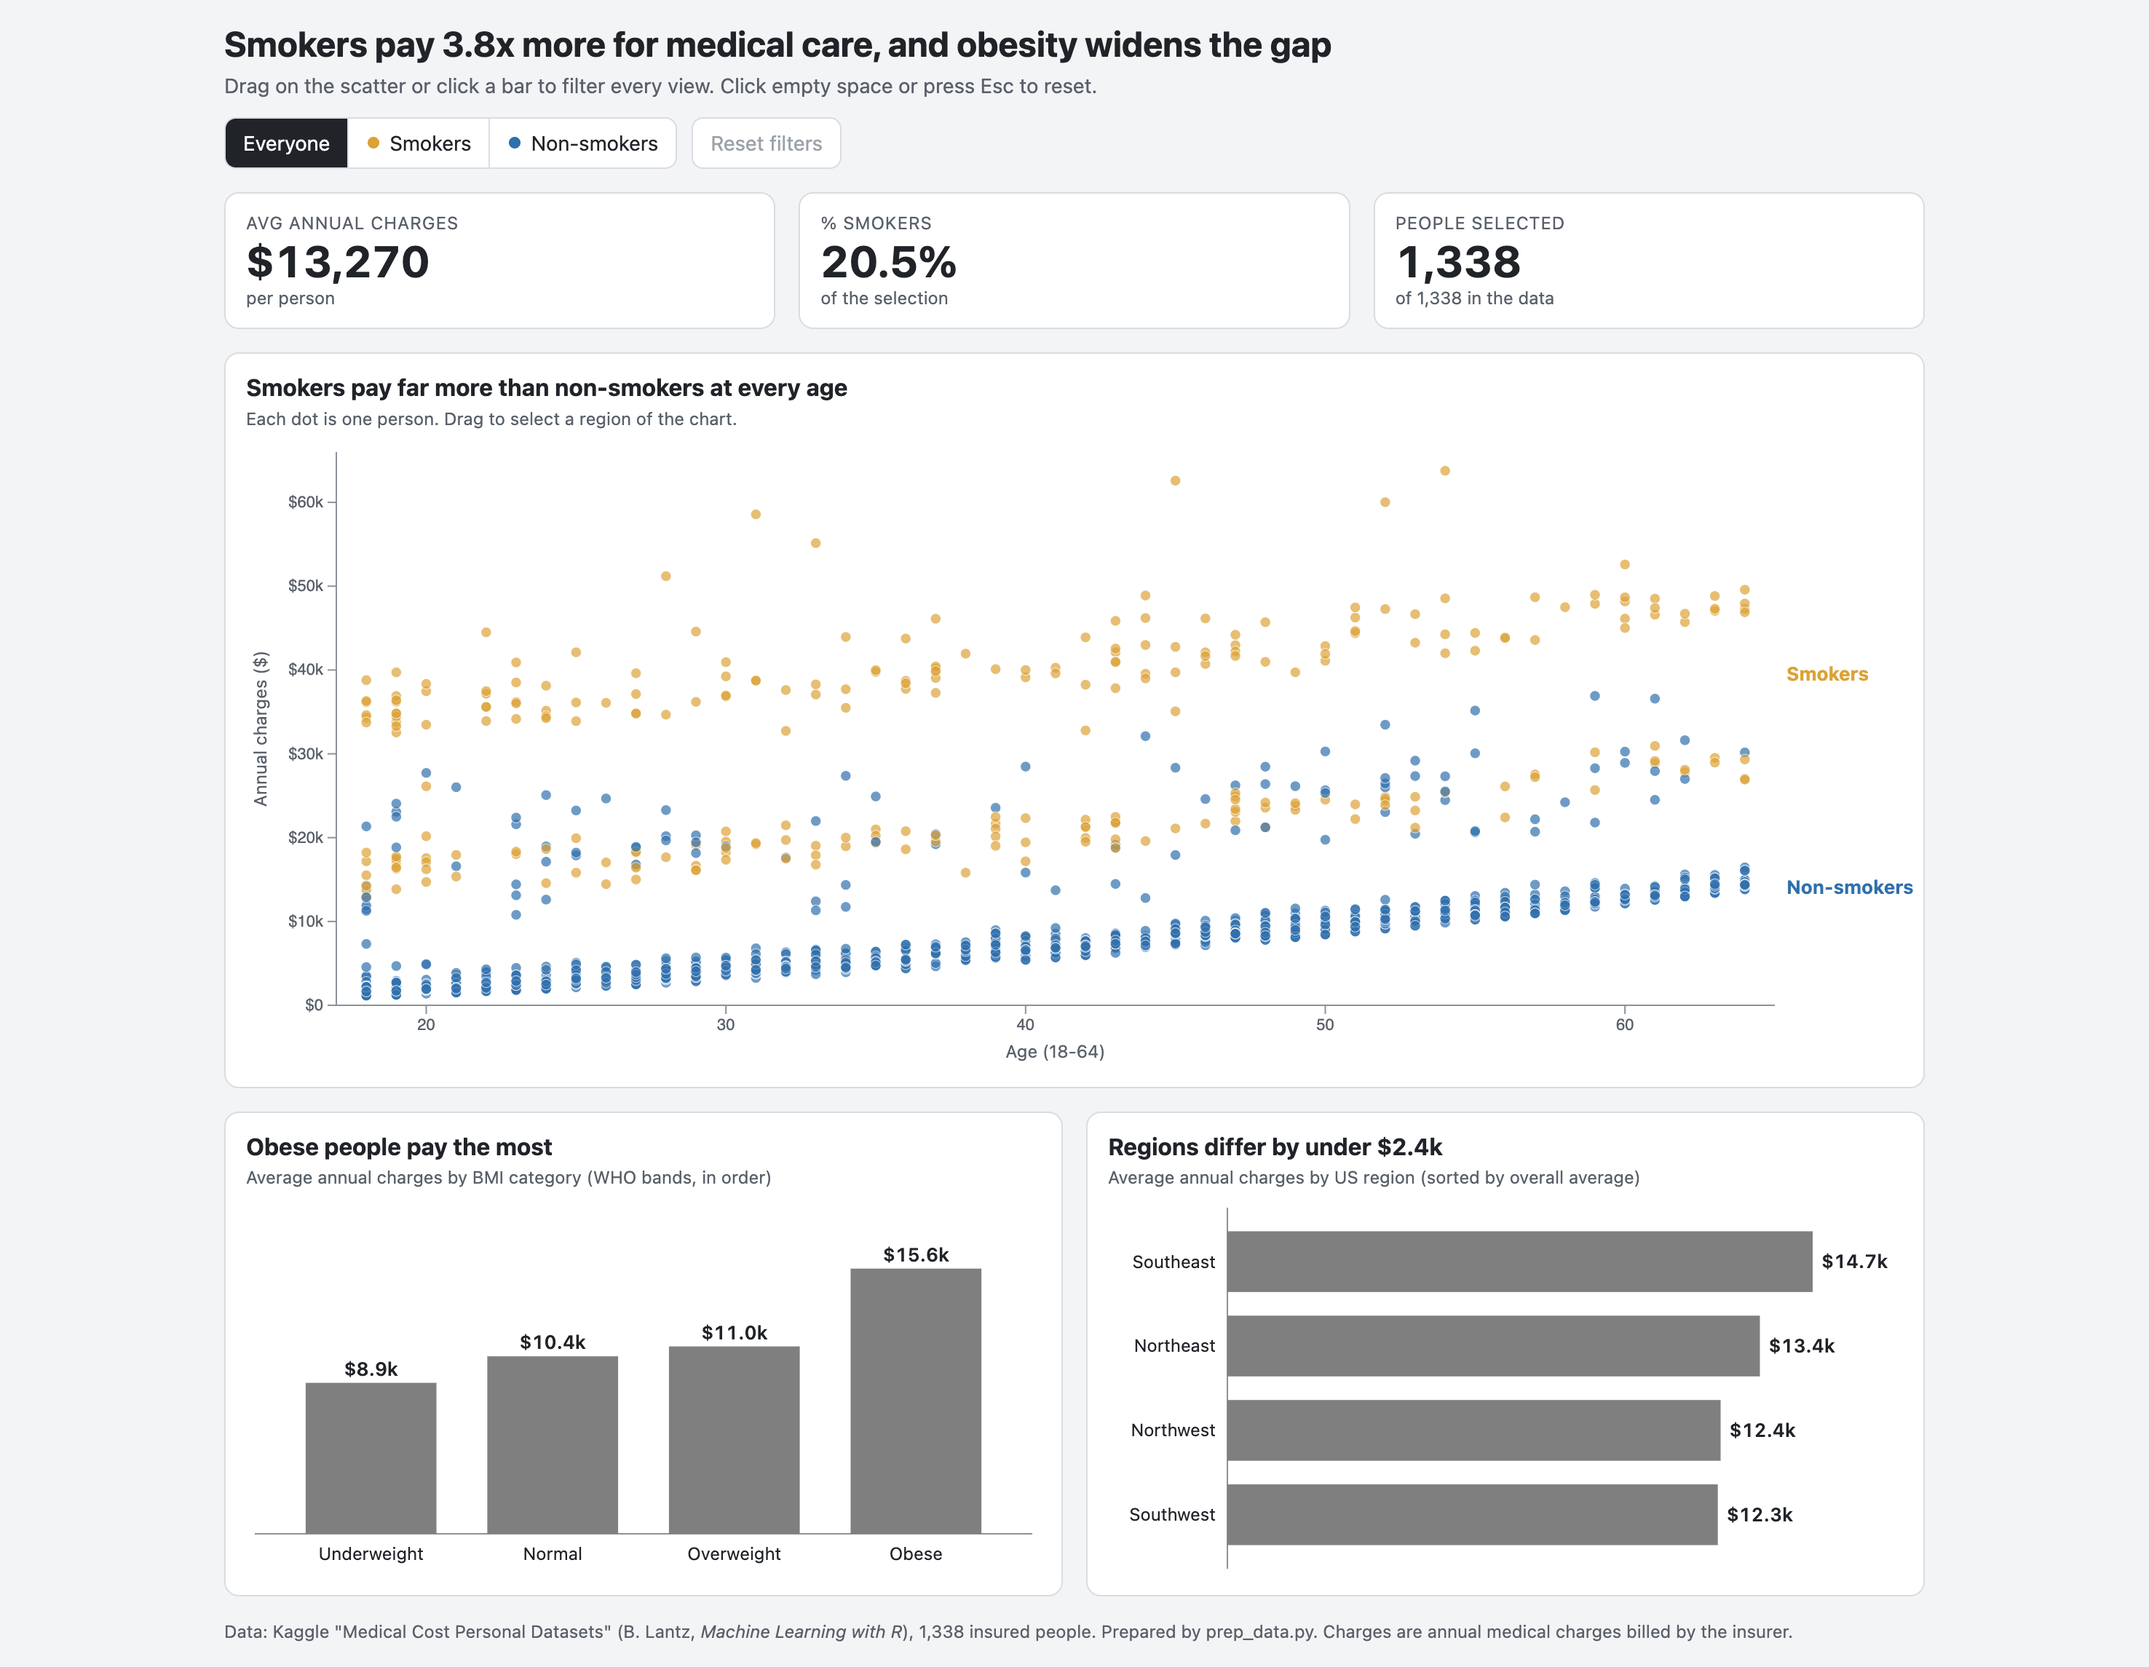
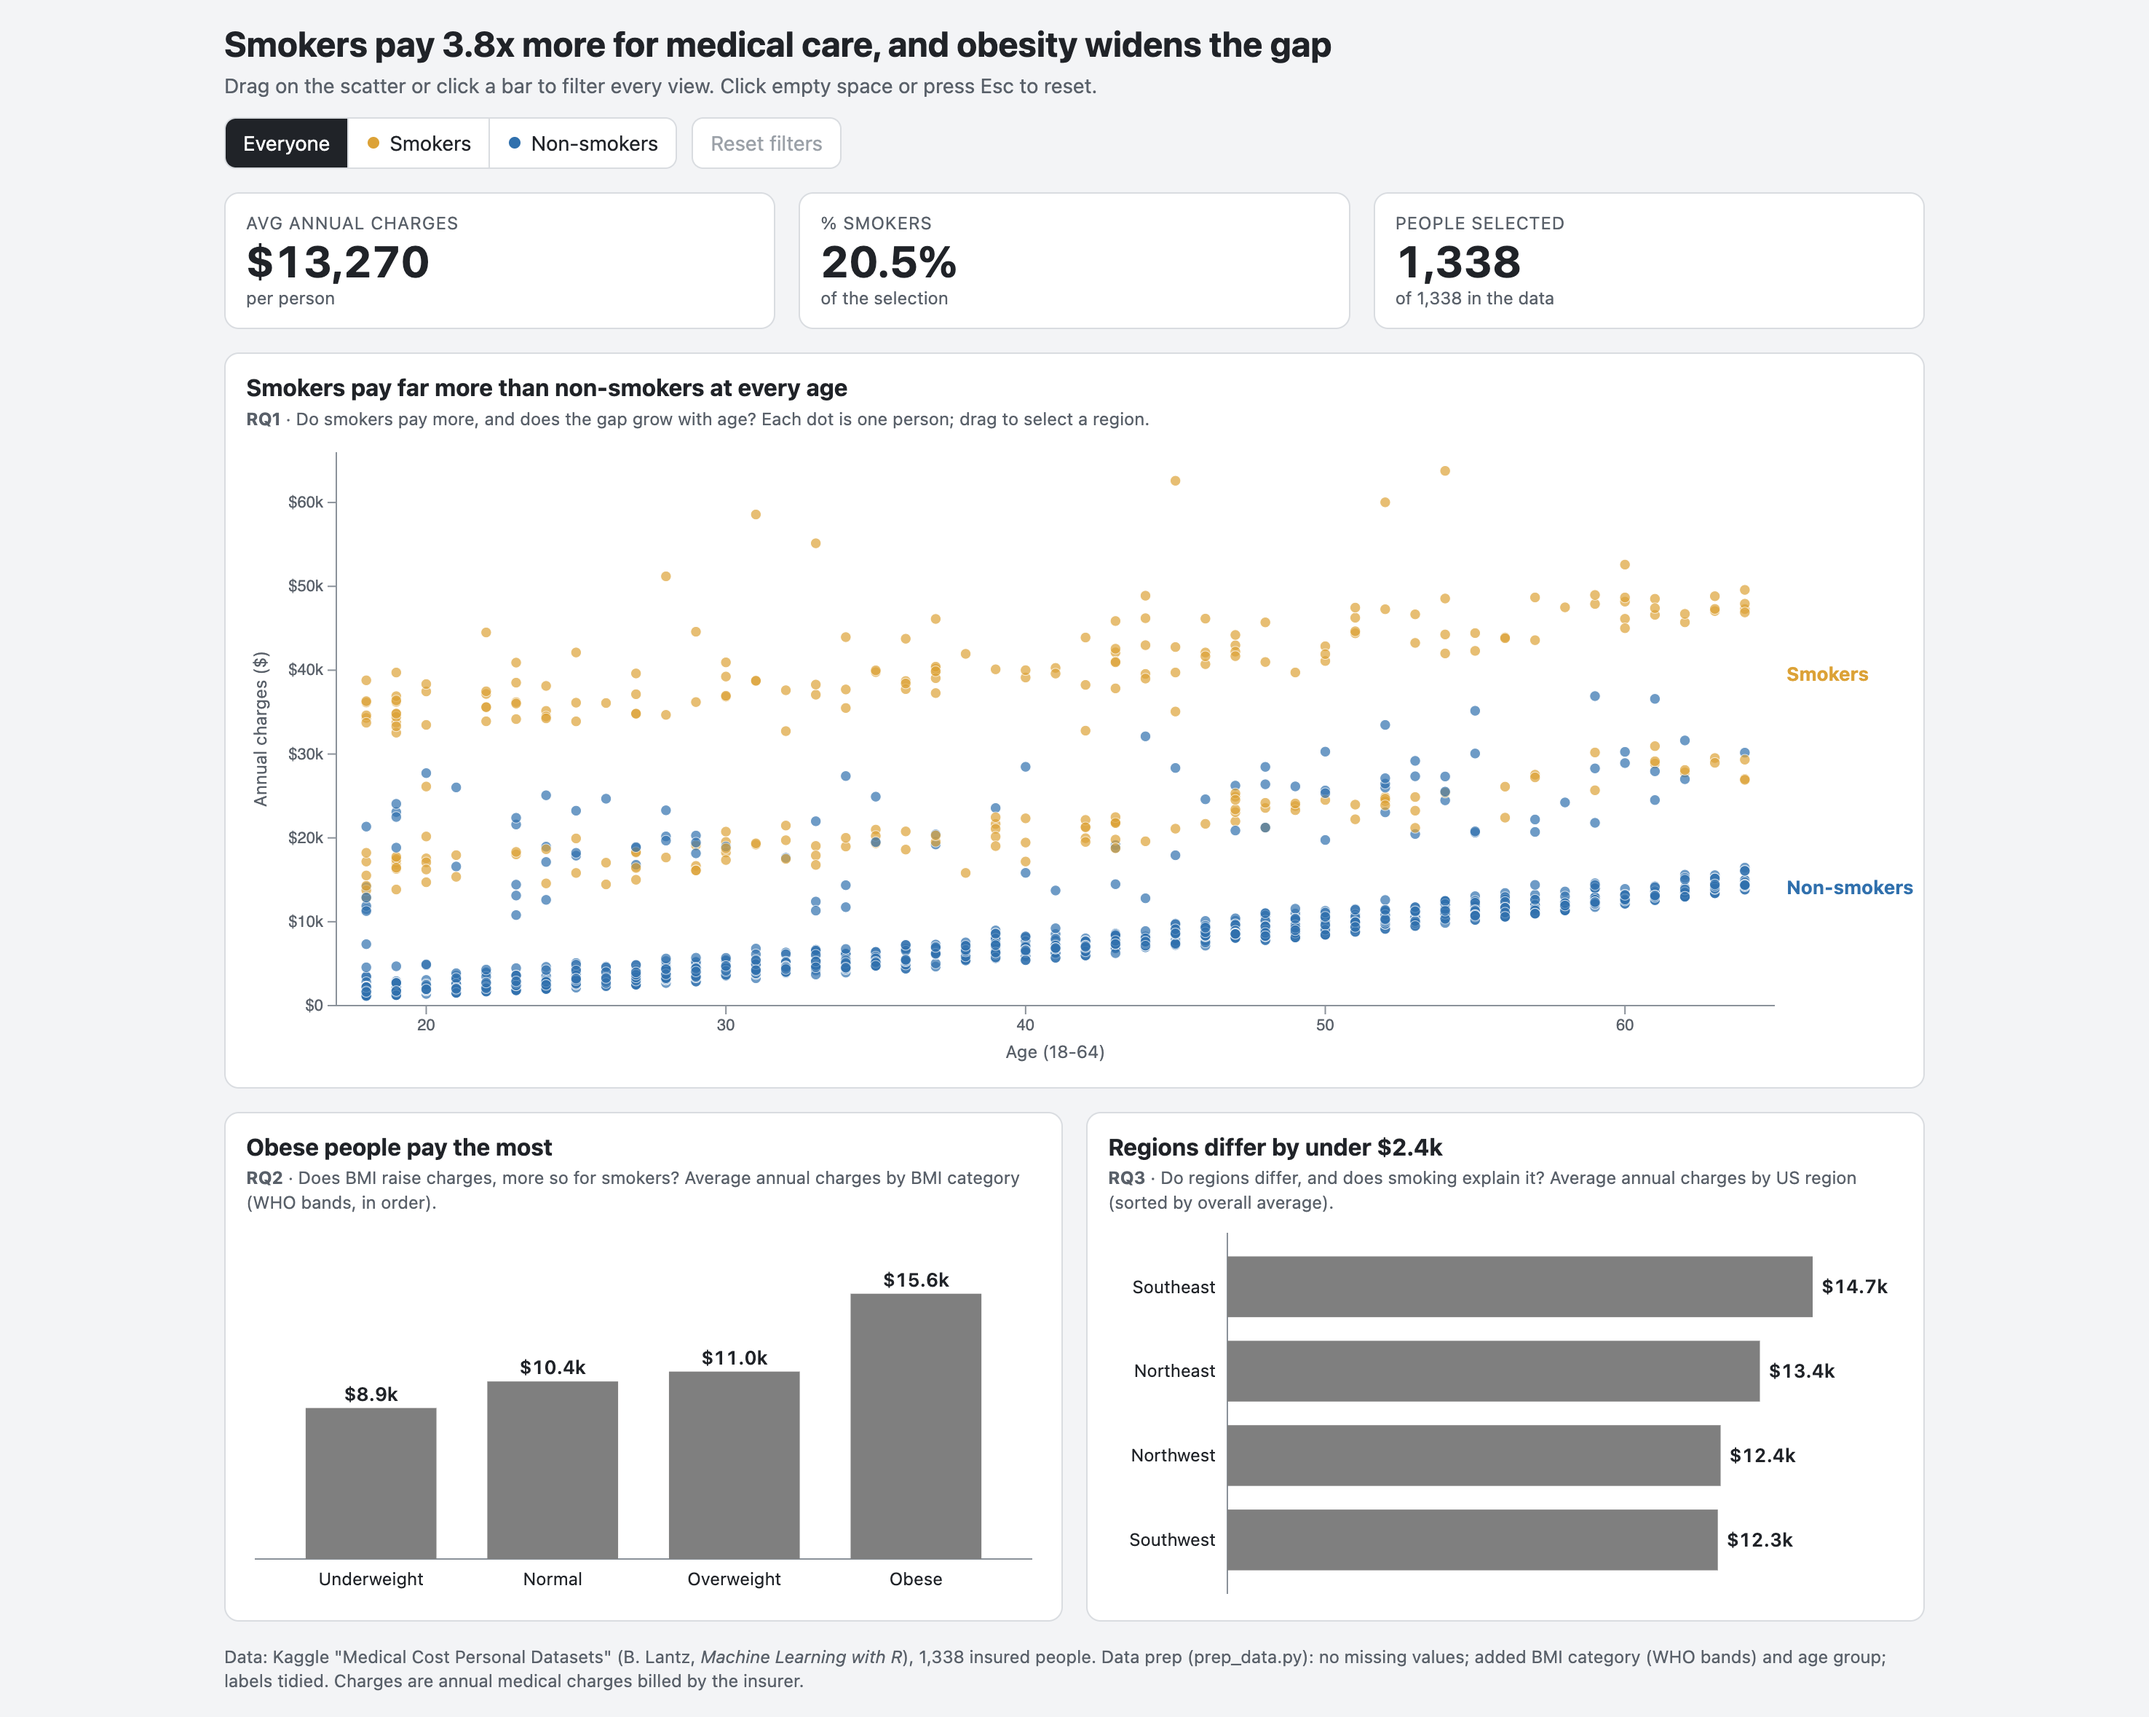
Tie each view to its research question; add channel table and refreshed screenshots

diff --git a/index.html b/index.html
@@ -112,7 +112,7 @@
   <!-- Hero view (answers RQ1): largest, top of the hierarchy -->
   <section class="card" aria-labelledby="h-scatter">
     <h2 id="h-scatter">Smokers pay far more than non-smokers at every age</h2>
-    <p class="cap">Each dot is one person. Drag to select a region of the chart.</p>
+    <p class="cap"><b>RQ1</b> &middot; Do smokers pay more, and does the gap grow with age? Each dot is one person; drag to select a region.</p>
     <div id="scatter"></div>
   </section>
 
@@ -120,19 +120,19 @@
   <div class="breakdown">
     <section class="card" aria-labelledby="h-bmi">
       <h2 id="h-bmi">Obese people pay the most</h2>
-      <p class="cap">Average annual charges by BMI category (WHO bands, in order)</p>
+      <p class="cap"><b>RQ2</b> &middot; Does BMI raise charges, more so for smokers? Average annual charges by BMI category (WHO bands, in order).</p>
       <div id="bmi"></div>
     </section>
     <section class="card" aria-labelledby="h-region">
       <h2 id="h-region">Regions differ by under $2.4k</h2>
-      <p class="cap">Average annual charges by US region (sorted by overall average)</p>
+      <p class="cap"><b>RQ3</b> &middot; Do regions differ, and does smoking explain it? Average annual charges by US region (sorted by overall average).</p>
       <div id="region"></div>
     </section>
   </div>
 
   <footer>
     Data: Kaggle "Medical Cost Personal Datasets" (B. Lantz, <em>Machine Learning with R</em>), 1,338 insured people.
-    Prepared by prep_data.py. Charges are annual medical charges billed by the insurer.
+    Data prep (prep_data.py): no missing values; added BMI category (WHO bands) and age group; labels tidied. Charges are annual medical charges billed by the insurer.
   </footer>
 </main>
 <div id="tip" role="tooltip"></div>

diff --git a/CHANNELS.md b/CHANNELS.md
@@ -1,0 +1,23 @@
+# Channel justification: prototype vs Week 5 proposal
+
+Every channel below matches the proposal's channel justification table. The changes at the bottom are noted as the rubric asks.
+
+| Data variable | Type | Mark | Channel | Principle | Justification | Matches proposal? |
+|---|---|---|---|---|---|---|
+| Charges | Quantitative | Point (scatter), bar (bar charts) | Y-position / bar length on a common scale | Effectiveness | Most important variable, so it gets the strongest channel (Cleveland & McGill). | Yes |
+| Age | Quantitative | Point | X-position | Effectiveness | Second key quantitative variable; position shows the age trend precisely. | Yes |
+| Smoker | Categorical (2) | Point | Colour hue (orange `#E69F00` / blue `#0072B2`) | Expressiveness | Hue is an identity channel for identity data. The pair is colourblind-safe and differs in lightness. | Yes |
+| BMI category | Ordinal (4) | Bar | X-position in WHO order | Expressiveness | Ordered data on an ordered channel; never sorted by value. | Yes |
+| Region | Categorical (4) | Bar | Y-position (rows), sorted by overall average | Effectiveness / similarity | Unordered categories get spatial separation; sorting makes ranking easy. One neutral grey avoids implying order. | Yes |
+| Sex, children, BMI value | Categorical / ordinal / quantitative | none | Tooltip text | Details on demand | Low-priority dimensions kept out of the marks to protect the data-ink ratio. | Yes (BMI value added to the tooltip) |
+
+Dimensions encoded on marks: 5 (charges, age, smoker, BMI category, region). Three more are available on hover.
+
+## Changes from the proposal
+1. **Tool:** D3.js v7 instead of Tableau Public. The assignment allows D3, and Tableau's web editor was too slow to build the dashboard reliably.
+2. **Smoker toggle added** (Everyone / Smokers / Non-smokers). It answers the grader's feedback on the proposal, because most research questions depend on smoker status. It filters all views and the KPIs.
+3. **Selection styling:** a selected bar is dark grey and the other bars light grey (lightness, not hue). Points outside the current selection fade to low opacity. No new hue was introduced.
+4. **Filter semantics:** each view is filtered by every selection except its own, so the other bars stay visible for comparison while one is selected.
+
+## Known gaps, planned for the final
+Layout refinement, a greyscale/colourblind check of the final screenshots, usability testing with 2 peers, and the reflection are assessed at the final submission.

diff --git a/README.md b/README.md
@@ -6,11 +6,14 @@ Drag on the scatter or click a bar to filter every view. Click empty space, pres
 
 ![Default view](screenshots/01_default_view.png)
 
+![Linked filtering: a brush on the scatter plus the Obese bar](screenshots/02_linked_filtering.png)
+
 ## Run locally
 Open `index.html` in a browser, or serve the folder: `python3 -m http.server 8000`.
 
 ## Files
 - `index.html`: the dashboard.
+- `CHANNELS.md`: which visual channel encodes each variable, and what changed from the proposal.
 - `data.js`: cleaned data (generated by `prep_data.py`).
 - `vendor/d3.min.js`: D3 v7.8.5 (ISC licence).
 - `prep_data.py`: validates the raw Kaggle CSV, derives `bmi_category` and `age_group`, writes the cleaned CSV and `data.js`. It expects the raw file at `data/insurance.csv`, which is not included here.
